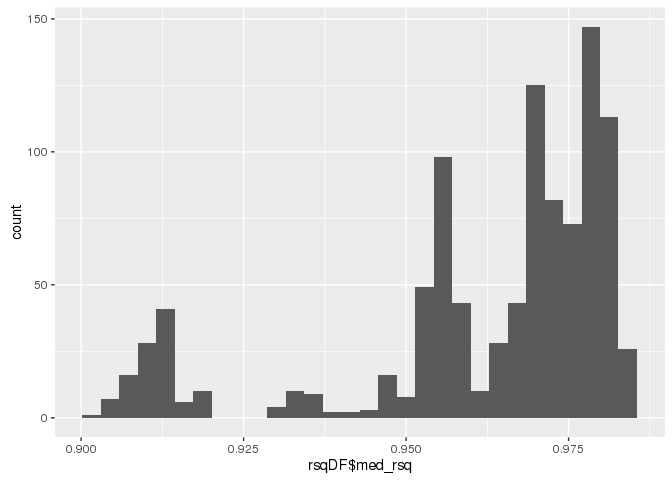
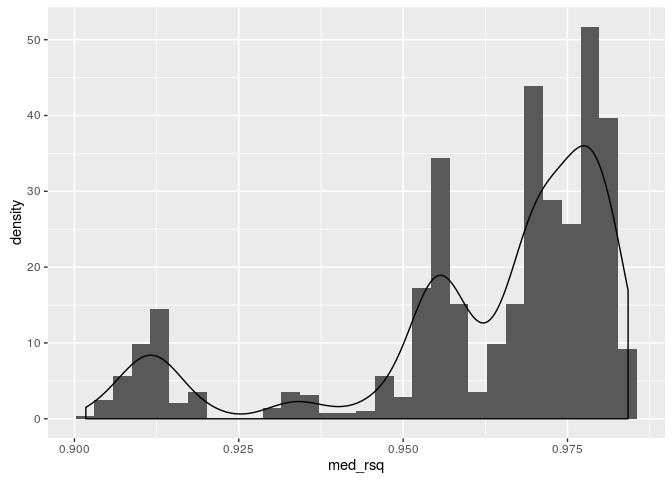
new plots

diff --git a/Motion/plot_rsq_rez.md b/Motion/plot_rsq_rez.md
@@ -10,21 +10,22 @@
 
     ## Warning: Removed 13 rows containing missing values (geom_point).
 
-![](plot_rsq_rez_files/figure-markdown_strict/unnamed-chunk-1-1.png)
+![](plot_rsq_rez_files/figure-markdown_strict/unnamed-chunk-1-1.png)<!-- -->
 
-    #ggsave(aplot, filename='mean_by_perc_fd.png',  width=10, height=10, units='in', dpi=150) 
+Data checking
+=============
 
     rsqDF <- read.csv('./RESULTS/SummaryRsqs.csv', stringsAsFactors=F)
 
     head(rsqDF) 
 
-    ##   motion_thresh   med_rsq      CI_95   n age_l age_u
-    ## 1            40 0.9572487 0.03649907 270     6     9
-    ## 2            15 0.9643414 0.04910226  90    15    18
-    ## 3            50 0.9694590 0.04284391  90    12    15
-    ## 4            40 0.9718624 0.04441847 120    15    18
-    ## 5            15 0.9645524 0.04696635 120    15    18
-    ## 6            45 0.9080782 0.17544432  30    11    14
+    ##   motion_thresh   med_rsq      CI_95   med_icc  CI_95_icc   n age_l age_u
+    ## 1            45 0.9113502 0.14894686 0.9560125 0.06709182  30    13    16
+    ## 2            50 0.9130510 0.11846852 0.9566213 0.05456147  30    13    16
+    ## 3            10 0.9545049 0.07439385 0.9777355 0.03571818 300    14    17
+    ## 4            30 0.9824655 0.02512164 0.9913838 0.01187193 300    11    14
+    ## 5            20 0.9459763 0.05508039 0.9732650 0.02762873 210     6     9
+    ## 6            20 0.9762827 0.02729964 0.9881639 0.01400458 240     9    12
 
     #Check frequencies and distributions
     table(rsqDF$motion_thresh)
@@ -90,11 +91,14 @@
     ##            45 10 10 10 10 10 10 10 10 10 10
     ##            50 10 10 10 10 10 10 10 10 10 10
 
-    qplot(rsqDF$med_rsq)
+    ggplot(rsqDF, aes(x=med_rsq))+geom_histogram(aes(y=..density..))+geom_density()
 
     ## `stat_bin()` using `bins = 30`. Pick better value with `binwidth`.
 
-![](plot_rsq_rez_files/figure-markdown_strict/freq_check-1.png)
+![](plot_rsq_rez_files/figure-markdown_strict/freq_check-1.png)<!-- -->
+
+*R*<sup>2</sup> plots
+=====================
 
     #Plot the fun stuff
 
@@ -123,8 +127,50 @@
 
     plotThing(n_color_age_facet)
 
-![](plot_rsq_rez_files/figure-markdown_strict/fun_plots-1.png)
+![](plot_rsq_rez_files/figure-markdown_strict/fun_plots-1.png)<!-- -->
 
     plotThing(age_color_n_facet)
 
-![](plot_rsq_rez_files/figure-markdown_strict/fun_plots-2.png)
+![](plot_rsq_rez_files/figure-markdown_strict/fun_plots-2.png)<!-- -->
+
+ICC plots
+=========
+
+    ggplot(rsqDF, aes(x=med_icc))+geom_histogram(aes(y=..density..))+geom_density()
+
+    ## `stat_bin()` using `bins = 30`. Pick better value with `binwidth`.
+
+![](plot_rsq_rez_files/figure-markdown_strict/unnamed-chunk-2-1.png)<!-- -->
+
+    #Plot the fun stuff
+
+    n_color_age_facet <- ggplot(rsqDF, aes(x=motion_thresh, y=med_icc, group=(n), color=(n)))+
+        geom_errorbar(aes(ymin=med_icc-CI_95_icc/2, 
+                  ymax=med_icc+CI_95_icc/2), 
+                  width=0, alpha=.6)+
+        facet_wrap(~age_l)+
+        coord_cartesian(y=c(.5, 1))+
+        scale_color_gradient(low='darkgray', high='darkblue')
+
+    age_color_n_facet <- ggplot(rsqDF, aes(x=motion_thresh, y=med_icc, group=factor(age_l), color=factor(age_l)))+
+        geom_errorbar(aes(ymin=med_icc-CI_95_icc/2, 
+                  ymax=med_icc+CI_95_icc/2), 
+                  width=0, alpha=.5)+
+        coord_cartesian(y=c(.8, 1))+
+        facet_wrap(~n)
+
+    plotThing <- function(aPlot){
+        aPlot + 
+            geom_point(alpha=.5)+
+            geom_line(alpha=.5)+
+            scale_x_continuous(trans='identity')+
+            scale_y_continuous(trans='identity')
+    }
+
+    plotThing(n_color_age_facet)
+
+![](plot_rsq_rez_files/figure-markdown_strict/fun_plots2-1.png)<!-- -->
+
+    plotThing(age_color_n_facet)
+
+![](plot_rsq_rez_files/figure-markdown_strict/fun_plots2-2.png)<!-- -->
